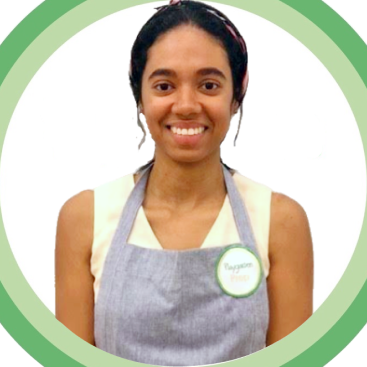
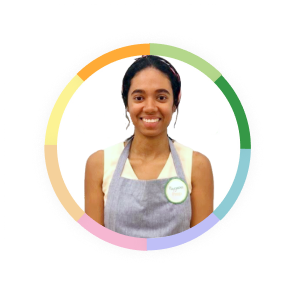
Change teacher photo

diff --git a/components/app/register/CardPlaygarden.vue b/components/app/register/CardPlaygarden.vue
@@ -56,13 +56,13 @@
           Still not sure? Call, text, or email us with your questions, and a member of our teacher team will get back to you with more information.
         </p>
 
-        <div class="pg-flex pg-items-center pg-justify-between pg-gap-5">
+        <div class="pg-flex pg-items-center pg-justify-between">
           <v-img
             :src="require('@/assets/png/miss_rose.png')"
             alt="Miss Rose"
             class="pg-block pg-mx-auto pg-mt-5 pg-rounded-[50%]"
-            width="150"
-            height="150"
+            width="200"
+            height="200"
             contain
           />
           <div class="pg-text-center pg-mt-5">
